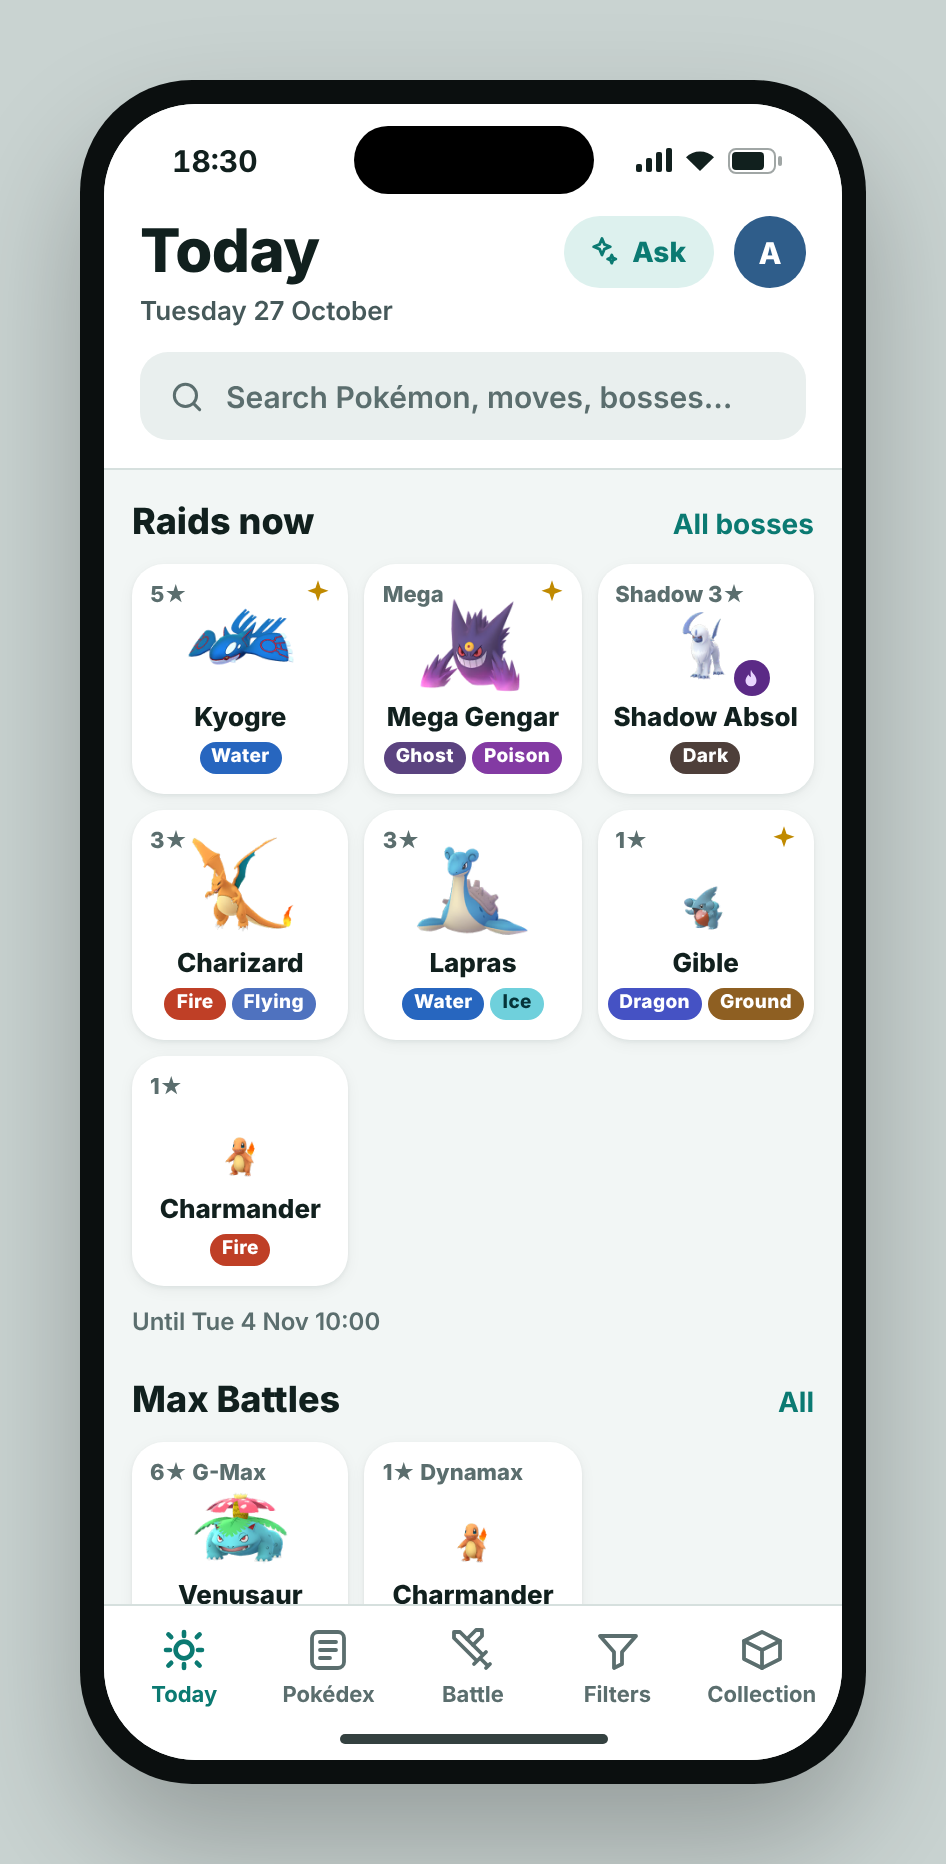
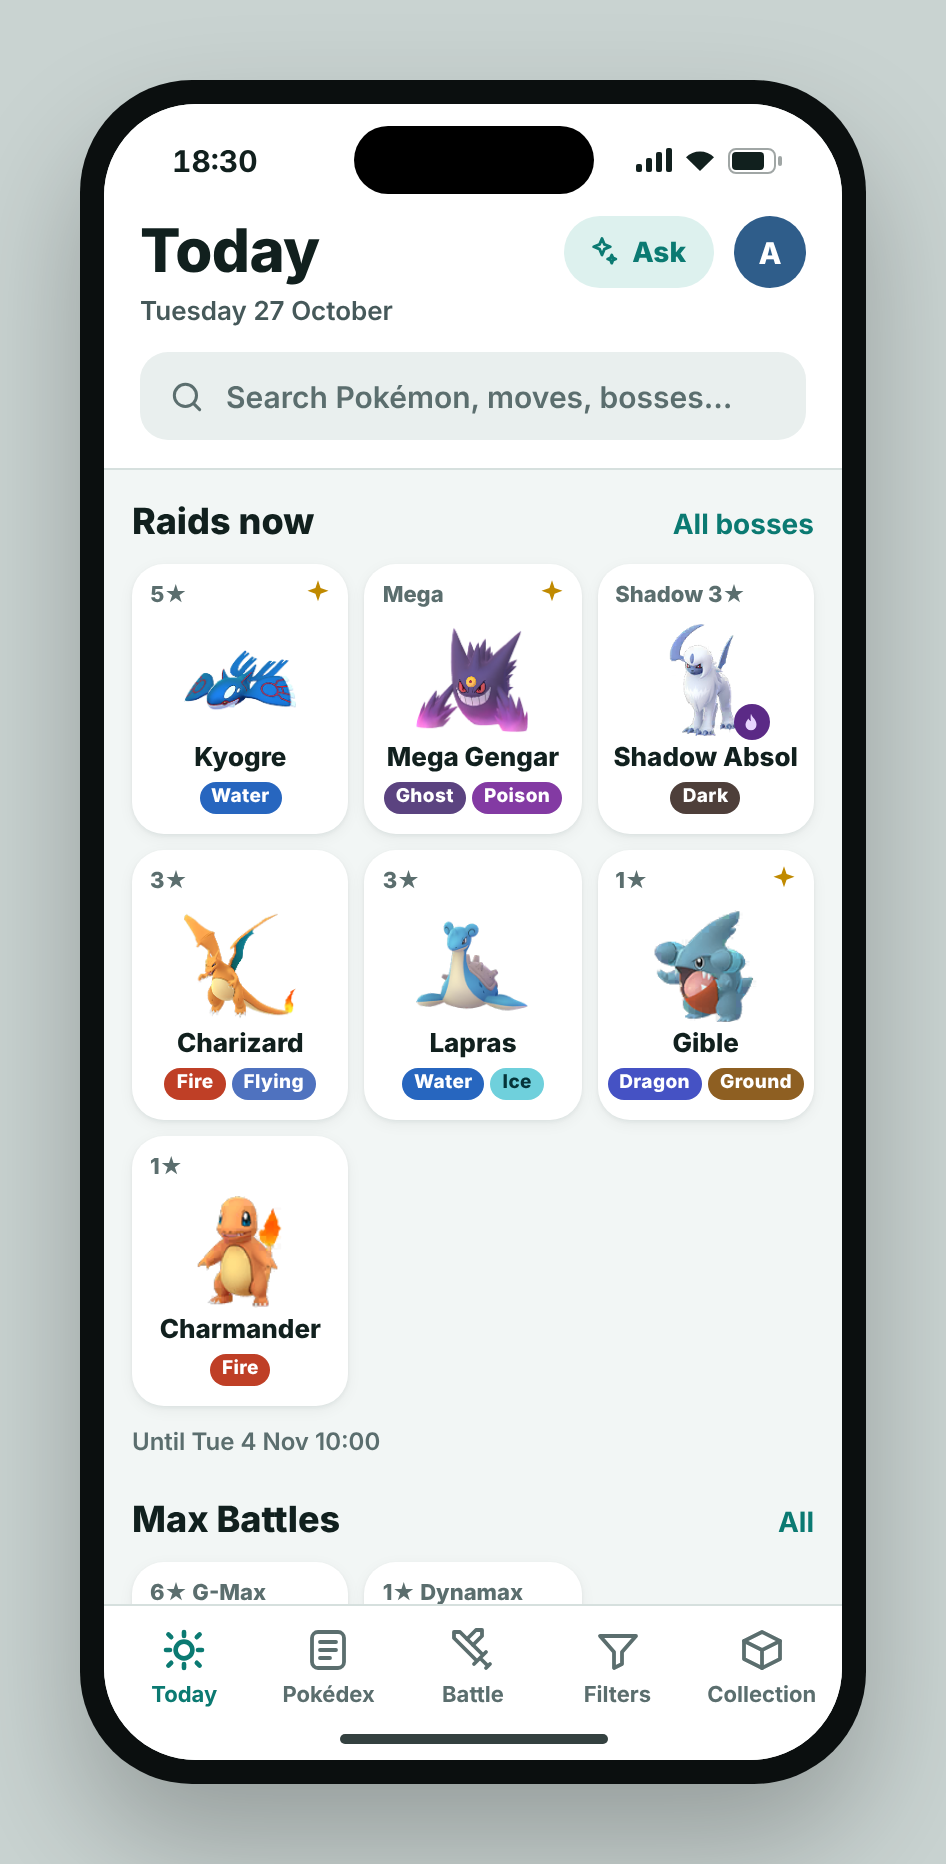
Approve A1 Today; sprites scaled to fill their box
Claude-Session: https://claude.ai/code/session_014PLsCiJiJmtsciFeh9tQXY

diff --git a/design/source/screens/_a1.css b/design/source/screens/_a1.css
@@ -1,5 +1,5 @@
 .tiles { display: grid; gap: 8px; }
-.tile { position: relative; background: var(--surface); border-radius: 16px; box-shadow: var(--shadow); padding: 10px 8px 10px; display: flex; flex-direction: column; align-items: center; gap: 4px; text-align: center; }
+.tile { position: relative; background: var(--surface); border-radius: 16px; box-shadow: var(--shadow); padding: 30px 8px 10px; display: flex; flex-direction: column; align-items: center; gap: 4px; text-align: center; }
 .tile .tier { position: absolute; top: 8px; left: 9px; font-size: 11px; font-weight: 800; color: var(--text-3); }
 .tile .shiny { position: absolute; top: 7px; right: 8px; color: #C08A00; }
 .tile .name { font-size: 13px; font-weight: 800; line-height: 1.15; }
@@ -7,7 +7,7 @@
 .tile .types .type { height: 16px; font-size: 9.5px; padding: 0 6px; }
 .tiles { --s: 56px; }
 .spritewrap { position: relative; display: flex; flex-direction: column; align-items: center; gap: 4px; }
-.shadowflame { position: absolute; top: calc(var(--s) - 18px); right: calc(50% - var(--s) / 2 - 4px); width: 18px; height: 18px; border-radius: 50%; background: #5B2A86; display: grid; place-items: center; }
+.shadowflame { position: absolute; top: calc(var(--s) - 16px); right: calc(50% - var(--s) / 2 - 4px); width: 18px; height: 18px; border-radius: 50%; background: #5B2A86; display: grid; place-items: center; }
 .evt { display: flex; gap: 12px; align-items: center; padding: 12px 14px; }
 .evt + .evt { border-top: 1px solid var(--line); }
 .evt .when { font-size: 12px; font-weight: 800; color: var(--text-3); }

diff --git a/design/source/trim_sprites.py b/design/source/trim_sprites.py
@@ -1,0 +1,14 @@
+"""Trims the transparent border of every sprite so all Pokémon fill their box equally (owner's choice, 2026-10-27)."""
+import pathlib
+from PIL import Image
+
+for p in sorted(pathlib.Path(__file__).with_name("sprites").glob("*.png")):
+    im = Image.open(p).convert("RGBA")
+    box = im.getchannel("A").point(lambda a: 255 if a > 8 else 0).getbbox()
+    if not box:
+        continue
+    im = im.crop(box)
+    side = max(im.size)  # square canvas, content centred
+    sq = Image.new("RGBA", (side, side), (0, 0, 0, 0))
+    sq.paste(im, ((side - im.width) // 2, (side - im.height) // 2))
+    sq.save(p)

diff --git a/CLAUDE.md b/CLAUDE.md
@@ -135,6 +135,7 @@ Earlier product work (feature list F01–F25 with priorities, UI choices, first 
 | 2026-10-27 | Design: every screen is shown at **phone and desktop size** before approval. |
 | 2026-10-27 | Design: **app map approved** (`design/APP-MAP.md`) — tabs Today, Pokédex, Battle, Filters, Collection; search, Ask (AI) and profile always on screen; 25 MVP screens A1–H3. |
 | 2026-10-27 | Design style (`design/source/CONVENTIONS.md`): clean & data-focused · light + dark following the device · **teal** accent (orange only for warnings) · type colours on badges, and **Pokémon and raid boss pages tinted by main type** · comfortable density · rounded font (**Nunito**) · one shared sample dataset with a fictional trainer (Ash_PT, level 48, Mystic) on Tue 27 Oct 2026 18:30. Game sprites fetched locally, not committed. |
+| 2026-10-27 | Screen **A1 Today approved** (tiles for raids and Max Battles, live/next events, eggs & research summary, data-source line). Sprites trimmed and scaled to fill their box equally on all screens. |
 | 2026-10-27 | All commits authored by the owner's GitHub account (history rewritten); Claude's involvement shown by the Co-Authored-By trailer. |
 
 ## Open decisions

diff --git a/design/source/CONVENTIONS.md b/design/source/CONVENTIONS.md
@@ -9,6 +9,7 @@ Every screen follows these rules. Screens are HTML/CSS in `design/source/screens
 - **Accent:** **teal** — buttons, links, the active tab, selected states. Orange is used **only for warnings**; red only for errors and destructive actions.
 - **Themes:** light and dark, following the device (switch in Settings). Screens are reviewed in light mode; a dark check happens at the end.
 - **Type colours:** on type badges, move chips and charts everywhere. **Pokémon pages (B2) and raid boss pages (C2) are tinted with the Pokémon's main type** (header band and accents).
+- **Sprites:** trimmed to their content and scaled to **fill their box equally** (a small Pokémon like Gible looks as big as Kyogre).
 - **Sizes:** each screen is shown at **phone** (393×852, inside an iPhone frame) and **desktop** (1440 wide). Scrolling phone screens also get a `-full` image showing the whole page.
 
 ## Layout rules
